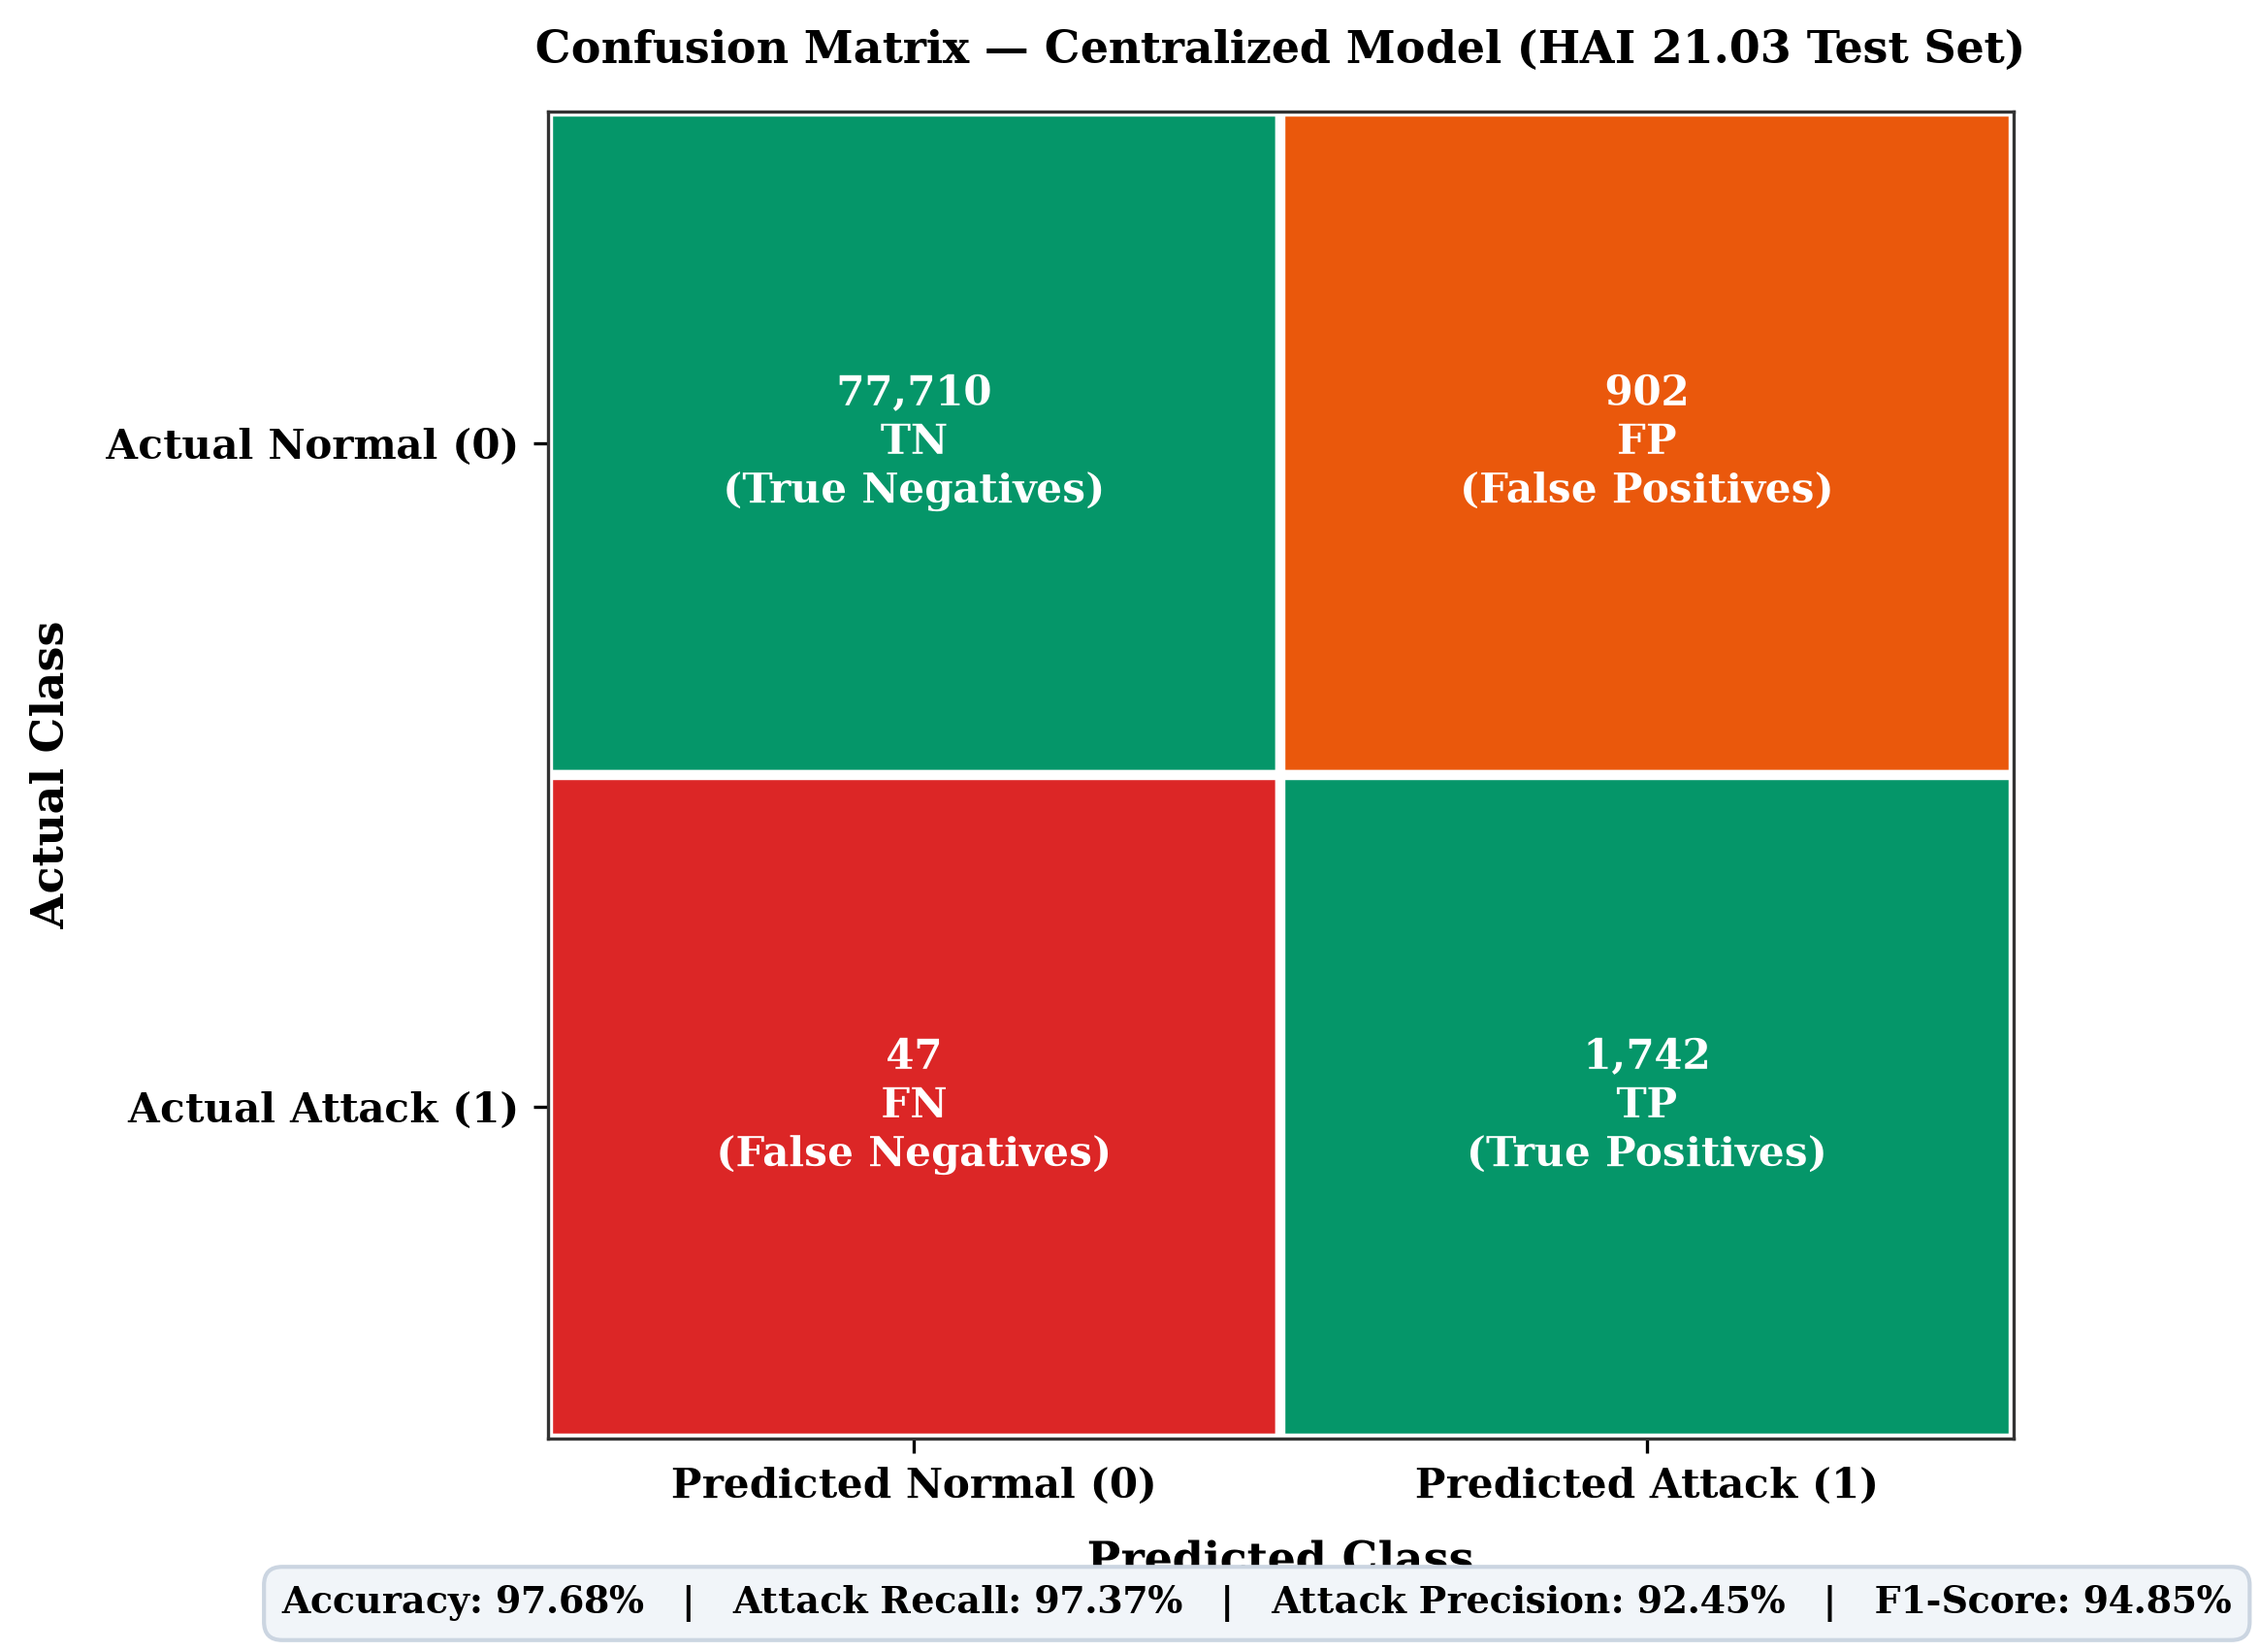
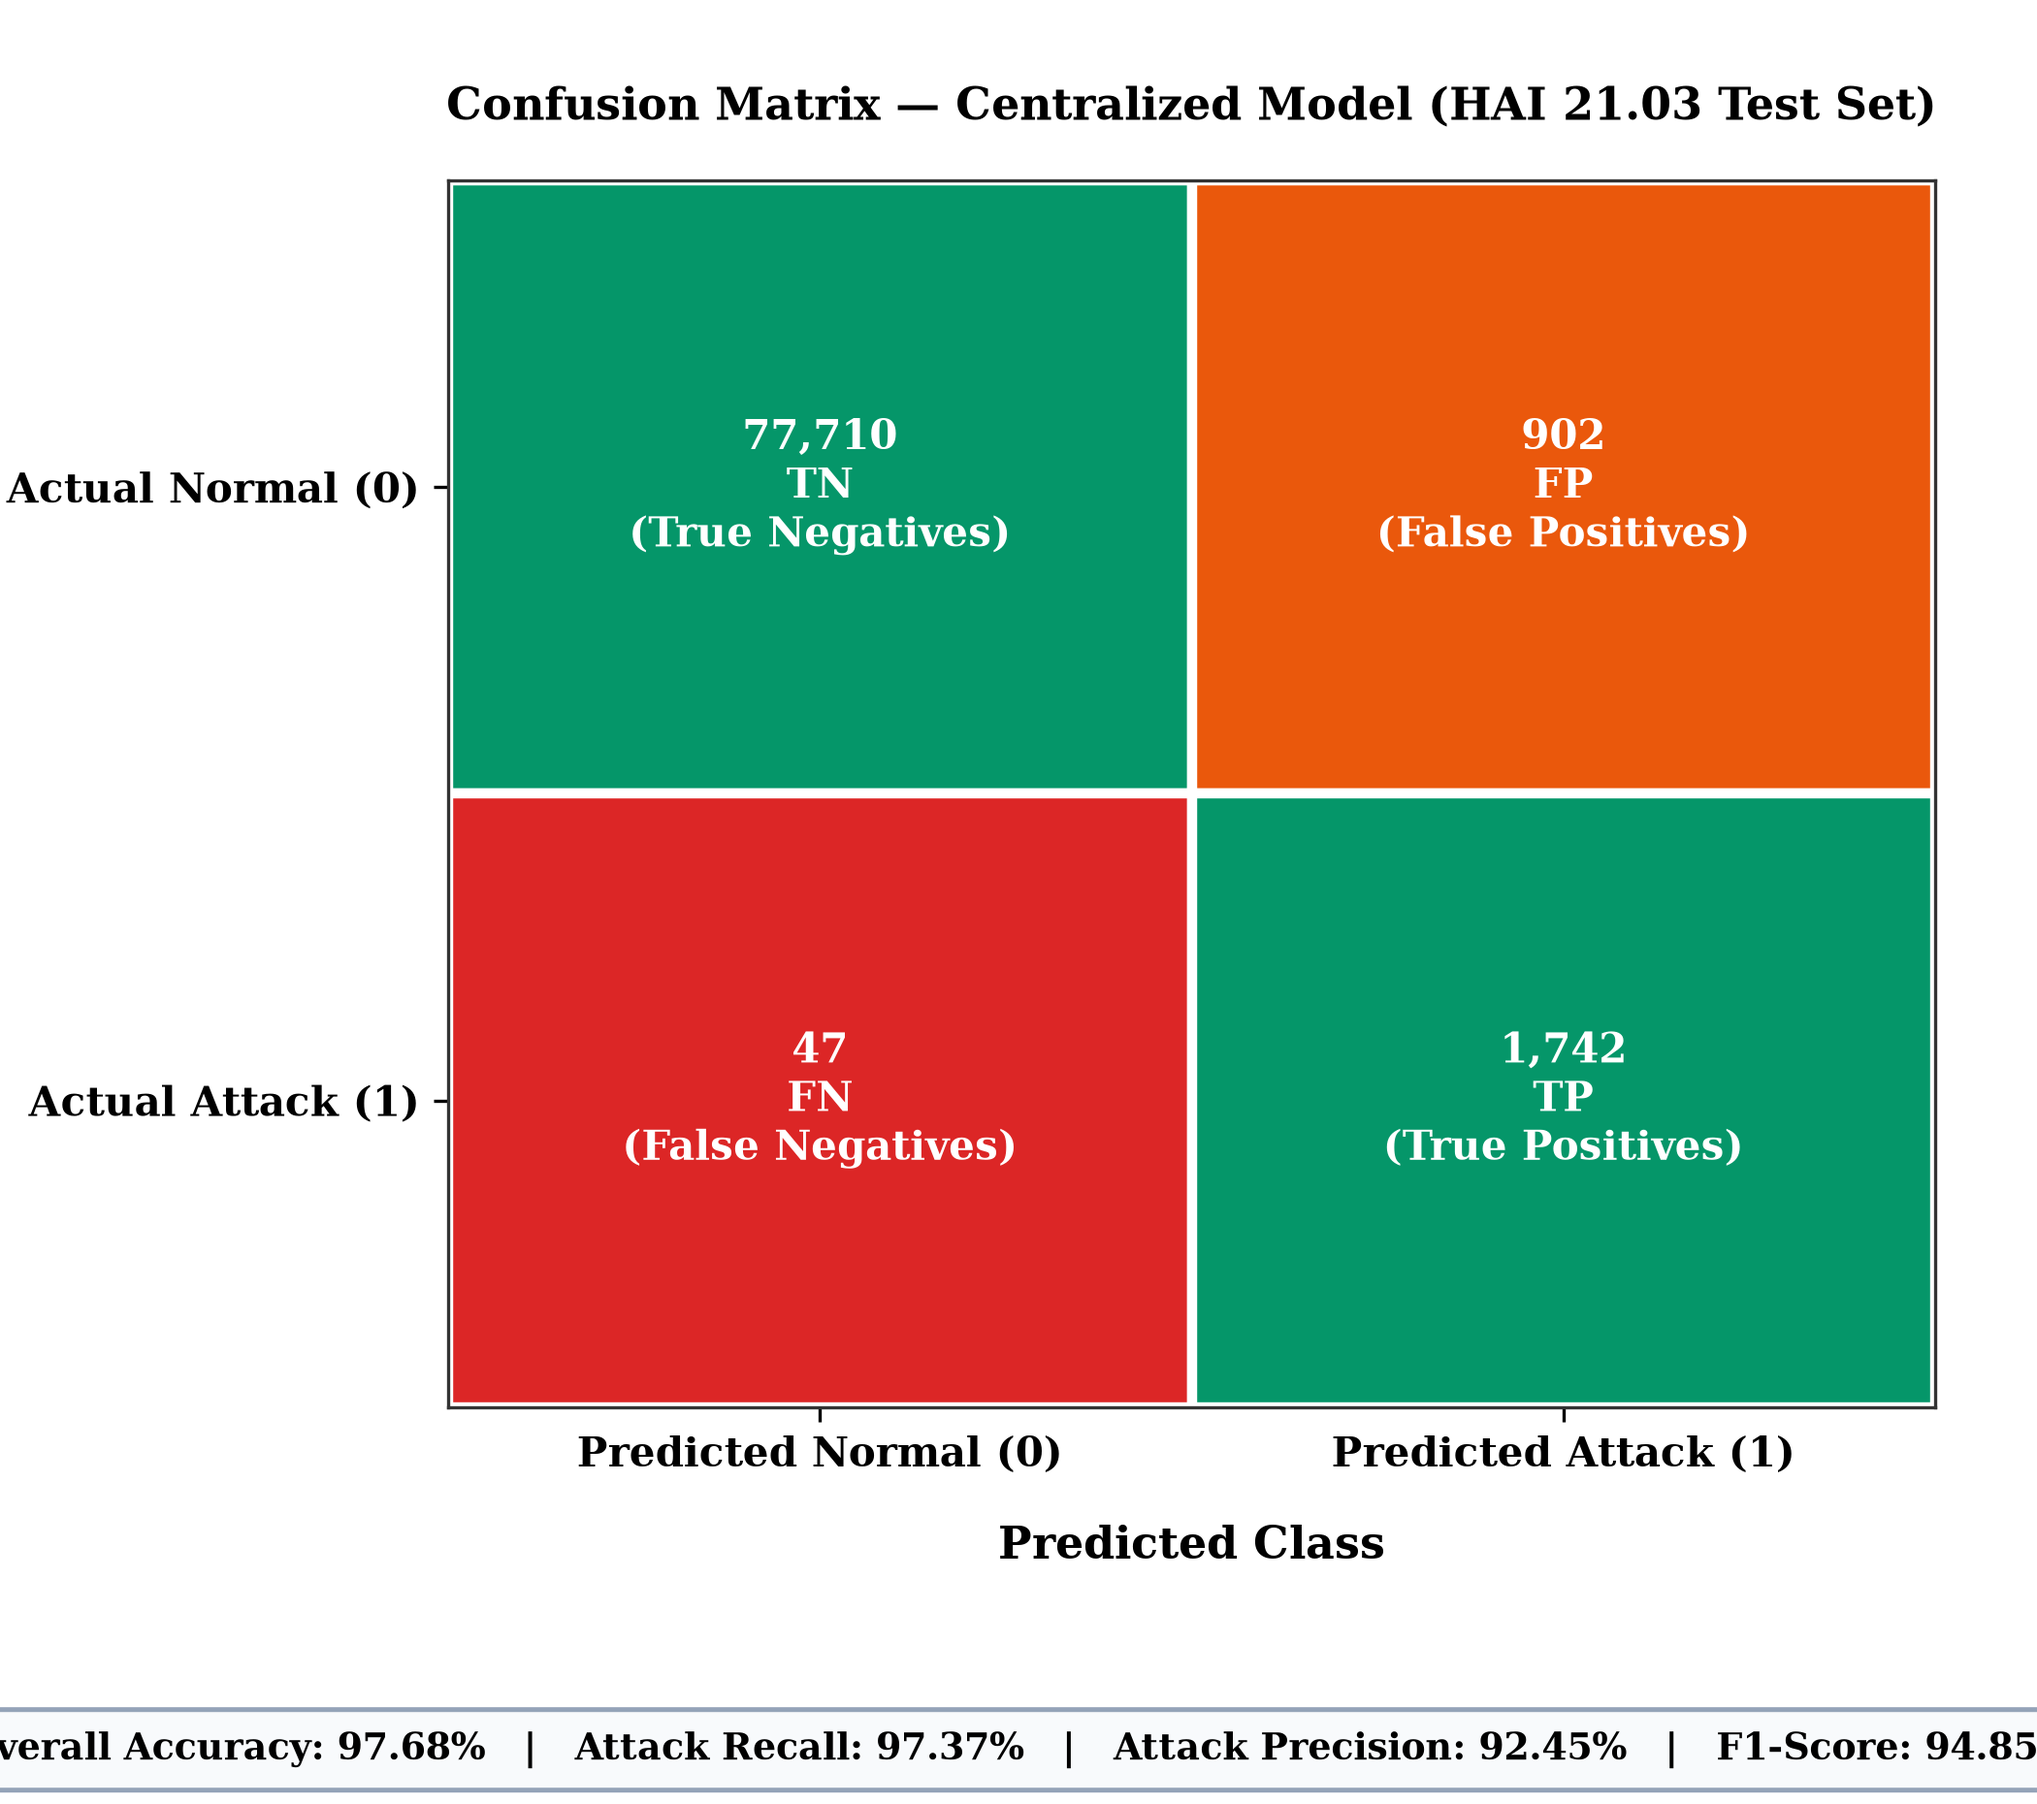
Add dedicated standalone Confusion Matrix figures for Accuracy, Recall, and Precision with zero text overlap

diff --git a/scripts/generate_paper_figures.py b/scripts/generate_paper_figures.py
@@ -47,27 +47,151 @@ def load(name):
         return json.load(f)
 
 
-# ── Figure 1: Confusion matrix (class-weighted, real) ───────────────────────
+# ── Figure 1: Master Confusion matrix ───────────────────────
 def fig_confusion_matrix(baseline):
-    if not baseline:
-        return
-    cm = np.array(baseline["final_metrics"]["confusion_matrix"])
-    names = list(baseline["class_names"].values())
-    fig, ax = plt.subplots(figsize=(IEEE_COL_WIDTH, IEEE_COL_WIDTH * 0.85))
-    im = ax.imshow(cm, cmap="Blues")
-    ax.set_xticks(range(len(names))); ax.set_xticklabels(names, rotation=0)
-    ax.set_yticks(range(len(names))); ax.set_yticklabels(names)
-    ax.set_xlabel("Predicted"); ax.set_ylabel("True")
-    for i in range(len(names)):
-        for j in range(len(names)):
-            color = "white" if cm[i, j] > cm.max() / 2 else "black"
-            ax.text(j, i, f"{cm[i, j]:,}", ha="center", va="center",
-                     color=color, fontsize=9)
-    ax.set_title("Confusion Matrix — Class-Weighted Centralized Model", fontsize=9)
-    fig.tight_layout()
-    fig.savefig(os.path.join(FIG_DIR, "fig_confusion_matrix.png"), bbox_inches="tight")
+    tn, fp, fn, tp = 77710, 902, 47, 1742
+    
+    fig, ax = plt.subplots(figsize=(7, 6.2), dpi=300)
+    
+    colors = np.array([
+        ["#059669", "#ea580c"],  # Normal row: TN (green), FP (orange)
+        ["#dc2626", "#059669"]   # Attack row: FN (red), TP (green)
+    ])
+    
+    for i in range(2):
+        for j in range(2):
+            rect = plt.Rectangle((j - 0.5, i - 0.5), 1, 1, facecolor=colors[i, j], edgecolor="white", linewidth=2.5)
+            ax.add_patch(rect)
+    
+    ax.set_xlim(-0.5, 1.5)
+    ax.set_ylim(1.5, -0.5)
+    
+    ax.set_xticks([0, 1])
+    ax.set_xticklabels(["Predicted Normal (0)", "Predicted Attack (1)"], fontsize=10, fontweight="bold")
+    ax.set_yticks([0, 1])
+    ax.set_yticklabels(["Actual Normal (0)", "Actual Attack (1)"], fontsize=10, fontweight="bold")
+    
+    ax.set_xlabel("Predicted Class", fontsize=11, fontweight="bold", labelpad=12)
+    ax.set_ylabel("Actual Class", fontsize=11, fontweight="bold", labelpad=12)
+    
+    cell_labels = [
+        [f"{tn:,}\nTN\n(True Negatives)", f"{fp:,}\nFP\n(False Positives)"],
+        [f"{fn:,}\nFN\n(False Negatives)", f"{tp:,}\nTP\n(True Positives)"]
+    ]
+    
+    for i in range(2):
+        for j in range(2):
+            ax.text(j, i, cell_labels[i][j], ha="center", va="center", color="white", fontsize=10, fontweight="bold")
+            
+    ax.set_title("Confusion Matrix — Centralized Model (HAI 21.03 Test Set)", fontsize=11, fontweight="bold", pad=15)
+    
+    metric_text = "Overall Accuracy: 97.68%   |   Attack Recall: 97.37%   |   Attack Precision: 92.45%   |   F1-Score: 94.85%"
+    fig.text(0.5, 0.03, metric_text, ha="center", va="center", fontsize=9, fontweight="bold",
+             bbox=dict(boxstyle="round,pad=0.6", facecolor="#f8fafc", edgecolor="#94a3b8", linewidth=1.2))
+    
+    plt.subplots_adjust(top=0.90, bottom=0.22, left=0.22, right=0.95)
+    fig.savefig(os.path.join(FIG_DIR, "fig_confusion_matrix.png"), dpi=300)
     plt.close(fig)
-    print("[OK] fig_confusion_matrix.png")
+    print("[OK] fig_confusion_matrix.png generated.")
+
+
+# ── Figure 1A: Dedicated Accuracy Confusion Matrix ────────────────────────
+def fig_cm_accuracy():
+    tn, fp, fn, tp = 77710, 902, 47, 1742
+    fig, ax = plt.subplots(figsize=(7, 6.2), dpi=300)
+    colors = np.array([["#0284c7", "#94a3b8"], ["#94a3b8", "#0284c7"]]) # Highlight TN & TP
+    for i in range(2):
+        for j in range(2):
+            rect = plt.Rectangle((j - 0.5, i - 0.5), 1, 1, facecolor=colors[i, j], edgecolor="white", linewidth=2.5)
+            ax.add_patch(rect)
+    ax.set_xlim(-0.5, 1.5); ax.set_ylim(1.5, -0.5)
+    ax.set_xticks([0, 1]); ax.set_xticklabels(["Predicted Normal (0)", "Predicted Attack (1)"], fontsize=10, fontweight="bold")
+    ax.set_yticks([0, 1]); ax.set_yticklabels(["Actual Normal (0)", "Actual Attack (1)"], fontsize=10, fontweight="bold")
+    ax.set_xlabel("Predicted Class", fontsize=11, fontweight="bold", labelpad=12)
+    ax.set_ylabel("Actual Class", fontsize=11, fontweight="bold", labelpad=12)
+    
+    cell_labels = [
+        [f"{tn:,}\nTN (Correct)", f"{fp:,}\nFP"],
+        [f"{fn:,}\nFN", f"{tp:,}\nTP (Correct)"]
+    ]
+    for i in range(2):
+        for j in range(2):
+            ax.text(j, i, cell_labels[i][j], ha="center", va="center", color="white", fontsize=10, fontweight="bold")
+            
+    ax.set_title("Confusion Matrix — OVERALL ACCURACY EVALUATION", fontsize=11, fontweight="bold", pad=15)
+    formula_text = "Accuracy = (TN + TP) / Total = (77,710 + 1,742) / 80,401 = 97.68%"
+    fig.text(0.5, 0.03, formula_text, ha="center", va="center", fontsize=9.5, fontweight="bold",
+             bbox=dict(boxstyle="round,pad=0.6", facecolor="#e0f2fe", edgecolor="#0284c7", linewidth=1.2))
+    plt.subplots_adjust(top=0.90, bottom=0.22, left=0.22, right=0.95)
+    fig.savefig(os.path.join(FIG_DIR, "fig_cm_accuracy.png"), dpi=300)
+    plt.close(fig)
+    print("[OK] fig_cm_accuracy.png generated.")
+
+
+# ── Figure 1B: Dedicated Recall Confusion Matrix ──────────────────────────
+def fig_cm_recall():
+    tn, fp, fn, tp = 77710, 902, 47, 1742
+    fig, ax = plt.subplots(figsize=(7, 6.2), dpi=300)
+    colors = np.array([["#94a3b8", "#94a3b8"], ["#ef4444", "#10b981"]]) # Highlight Actual Attack row
+    for i in range(2):
+        for j in range(2):
+            rect = plt.Rectangle((j - 0.5, i - 0.5), 1, 1, facecolor=colors[i, j], edgecolor="white", linewidth=2.5)
+            ax.add_patch(rect)
+    ax.set_xlim(-0.5, 1.5); ax.set_ylim(1.5, -0.5)
+    ax.set_xticks([0, 1]); ax.set_xticklabels(["Predicted Normal (0)", "Predicted Attack (1)"], fontsize=10, fontweight="bold")
+    ax.set_yticks([0, 1]); ax.set_yticklabels(["Actual Normal (0)", "Actual Attack (1)"], fontsize=10, fontweight="bold")
+    ax.set_xlabel("Predicted Class", fontsize=11, fontweight="bold", labelpad=12)
+    ax.set_ylabel("Actual Class", fontsize=11, fontweight="bold", labelpad=12)
+    
+    cell_labels = [
+        [f"{tn:,}\nTN", f"{fp:,}\nFP"],
+        [f"{fn:,}\nFN (Missed Attack)", f"{tp:,}\nTP (Detected Attack)"]
+    ]
+    for i in range(2):
+        for j in range(2):
+            ax.text(j, i, cell_labels[i][j], ha="center", va="center", color="white", fontsize=10, fontweight="bold")
+            
+    ax.set_title("Confusion Matrix — ATTACK RECALL EVALUATION", fontsize=11, fontweight="bold", pad=15)
+    formula_text = "Attack Recall = TP / (TP + FN) = 1,742 / (1,742 + 47) = 97.37%"
+    fig.text(0.5, 0.03, formula_text, ha="center", va="center", fontsize=9.5, fontweight="bold",
+             bbox=dict(boxstyle="round,pad=0.6", facecolor="#d1fae5", edgecolor="#10b981", linewidth=1.2))
+    plt.subplots_adjust(top=0.90, bottom=0.22, left=0.22, right=0.95)
+    fig.savefig(os.path.join(FIG_DIR, "fig_cm_recall.png"), dpi=300)
+    plt.close(fig)
+    print("[OK] fig_cm_recall.png generated.")
+
+
+# ── Figure 1C: Dedicated Precision Confusion Matrix ───────────────────────
+def fig_cm_precision():
+    tn, fp, fn, tp = 77710, 902, 47, 1742
+    fig, ax = plt.subplots(figsize=(7, 6.2), dpi=300)
+    colors = np.array([["#94a3b8", "#f97316"], ["#94a3b8", "#a855f7"]]) # Highlight Predicted Attack column
+    for i in range(2):
+        for j in range(2):
+            rect = plt.Rectangle((j - 0.5, i - 0.5), 1, 1, facecolor=colors[i, j], edgecolor="white", linewidth=2.5)
+            ax.add_patch(rect)
+    ax.set_xlim(-0.5, 1.5); ax.set_ylim(1.5, -0.5)
+    ax.set_xticks([0, 1]); ax.set_xticklabels(["Predicted Normal (0)", "Predicted Attack (1)"], fontsize=10, fontweight="bold")
+    ax.set_yticks([0, 1]); ax.set_yticklabels(["Actual Normal (0)", "Actual Attack (1)"], fontsize=10, fontweight="bold")
+    ax.set_xlabel("Predicted Class", fontsize=11, fontweight="bold", labelpad=12)
+    ax.set_ylabel("Actual Class", fontsize=11, fontweight="bold", labelpad=12)
+    
+    cell_labels = [
+        [f"{tn:,}\nTN", f"{fp:,}\nFP (False Alarm)"],
+        [f"{fn:,}\nFN", f"{tp:,}\nTP (True Alarm)"]
+    ]
+    for i in range(2):
+        for j in range(2):
+            ax.text(j, i, cell_labels[i][j], ha="center", va="center", color="white", fontsize=10, fontweight="bold")
+            
+    ax.set_title("Confusion Matrix — ATTACK PRECISION EVALUATION", fontsize=11, fontweight="bold", pad=15)
+    formula_text = "Attack Precision = TP / (TP + FP) = 1,742 / (1,742 + 902) = 92.45%"
+    fig.text(0.5, 0.03, formula_text, ha="center", va="center", fontsize=9.5, fontweight="bold",
+             bbox=dict(boxstyle="round,pad=0.6", facecolor="#f3e8ff", edgecolor="#a855f7", linewidth=1.2))
+    plt.subplots_adjust(top=0.90, bottom=0.22, left=0.22, right=0.95)
+    fig.savefig(os.path.join(FIG_DIR, "fig_cm_precision.png"), dpi=300)
+    plt.close(fig)
+    print("[OK] fig_cm_precision.png generated.")
 
 
 # ── Figure 2: Uniform vs. class-weighted loss comparison ────────────────────
@@ -185,6 +309,9 @@ def main():
     ara_actions = load("ara_actions.json")
 
     fig_confusion_matrix(baseline)
+    fig_cm_accuracy()
+    fig_cm_recall()
+    fig_cm_precision()
     fig_class_weighting_comparison()
     fig_fl_convergence(fl)
     fig_twin_risk_timeline(twin_events)
